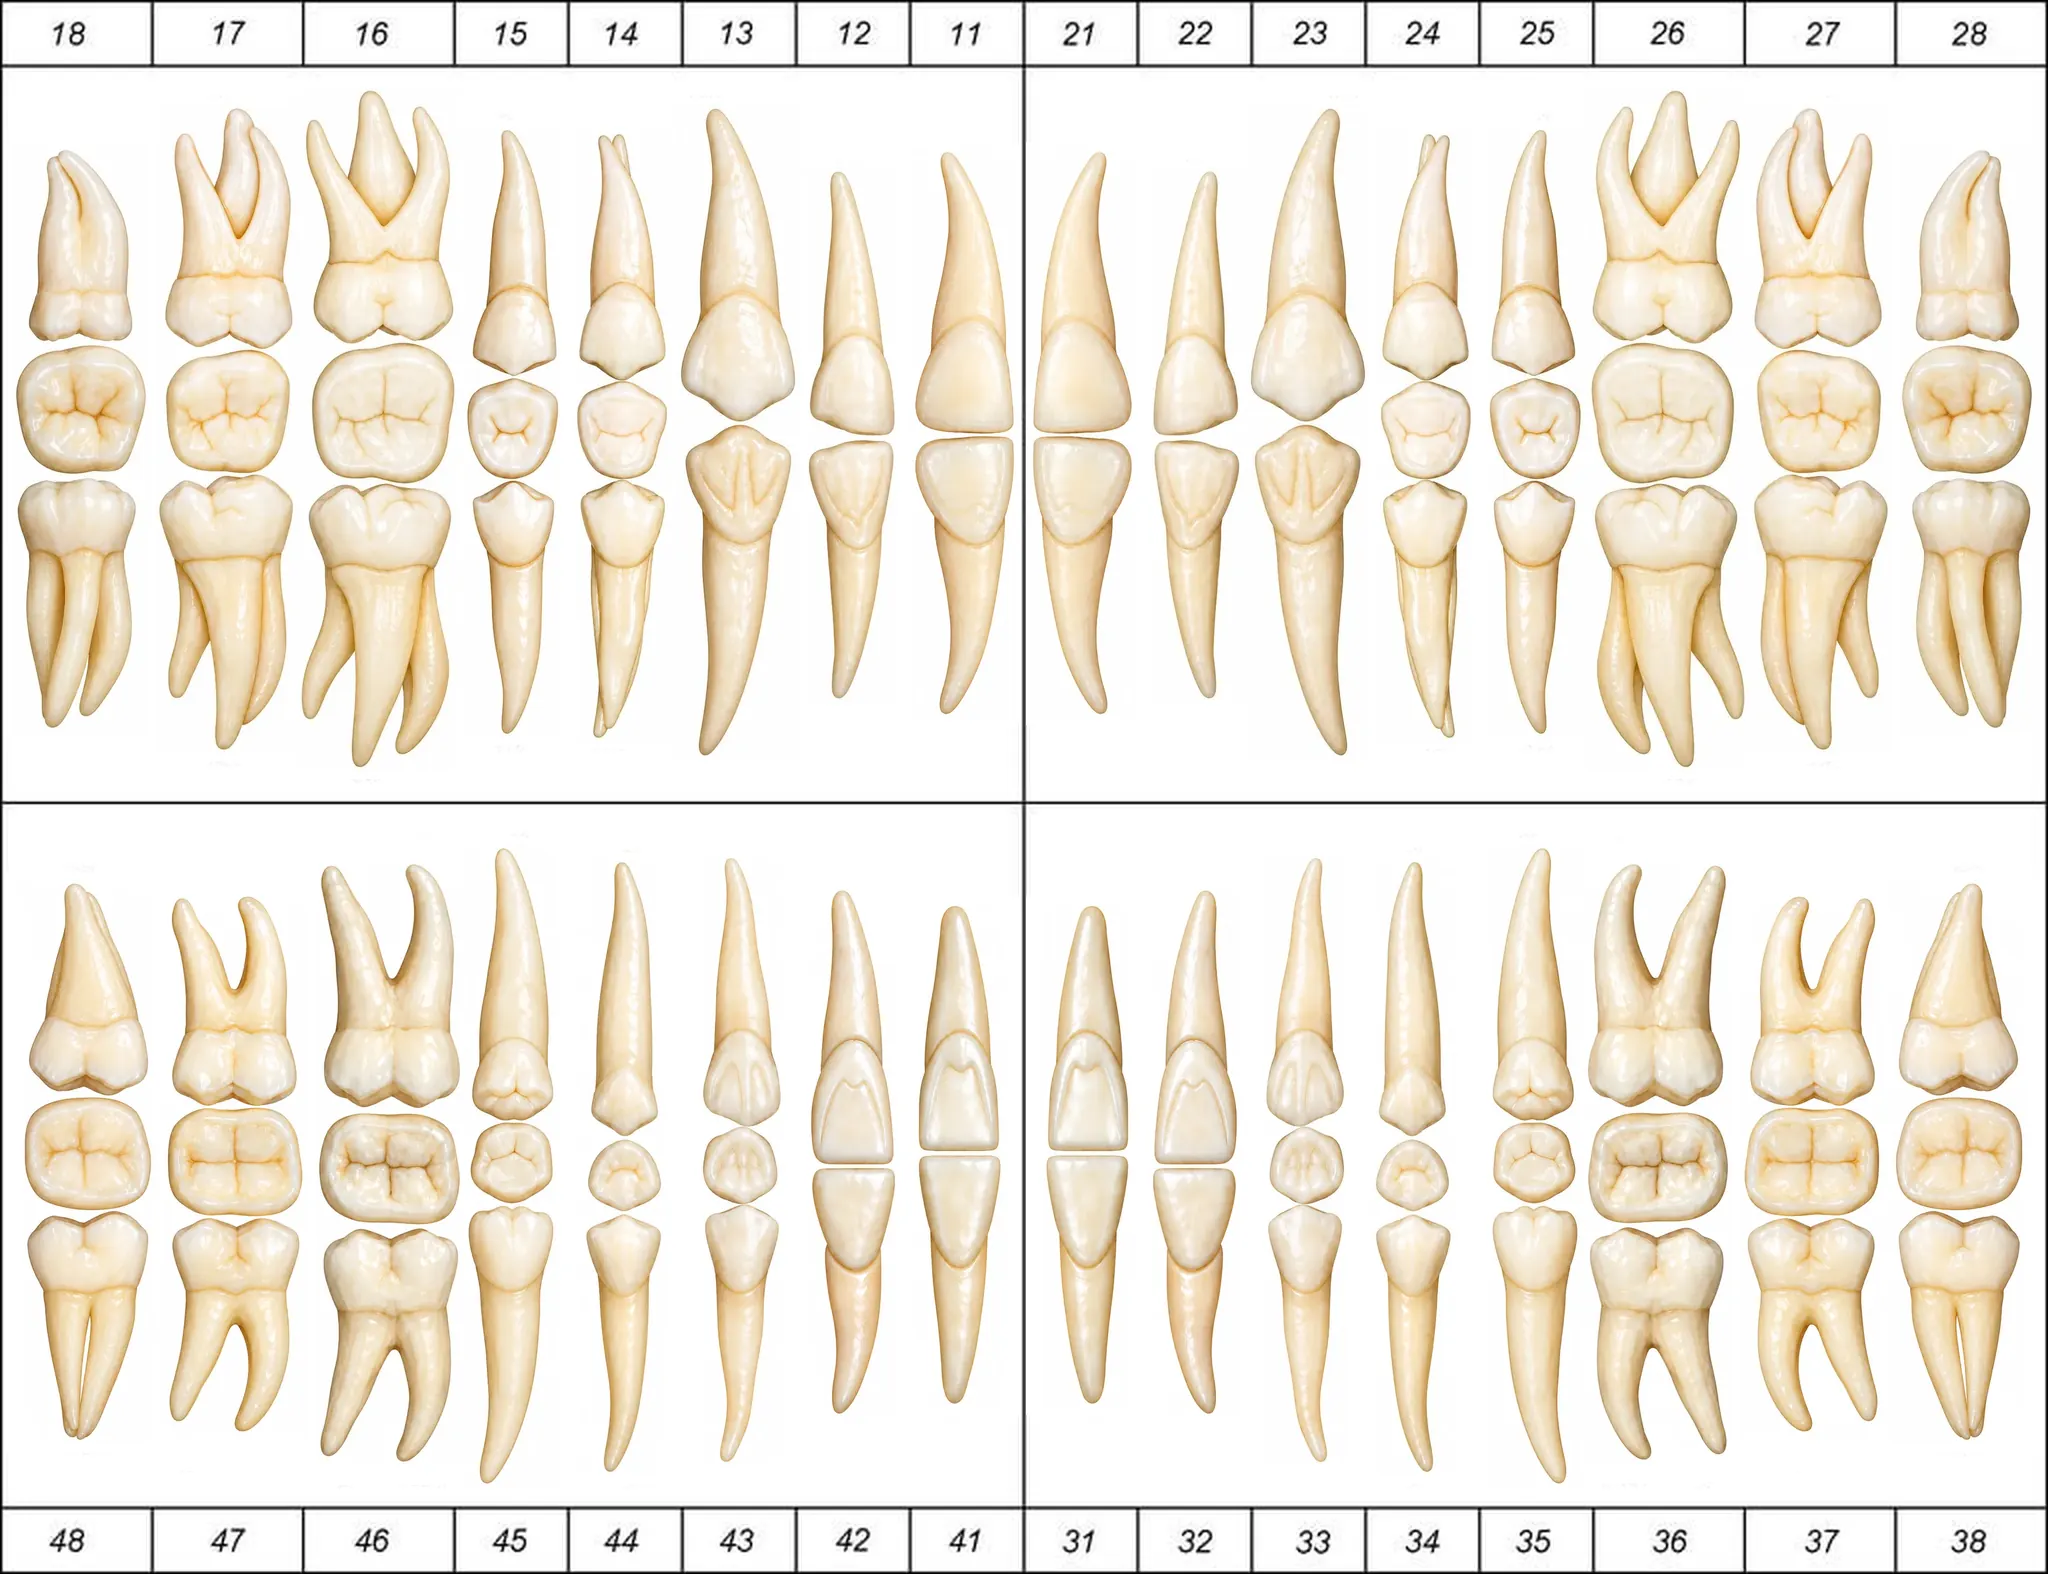
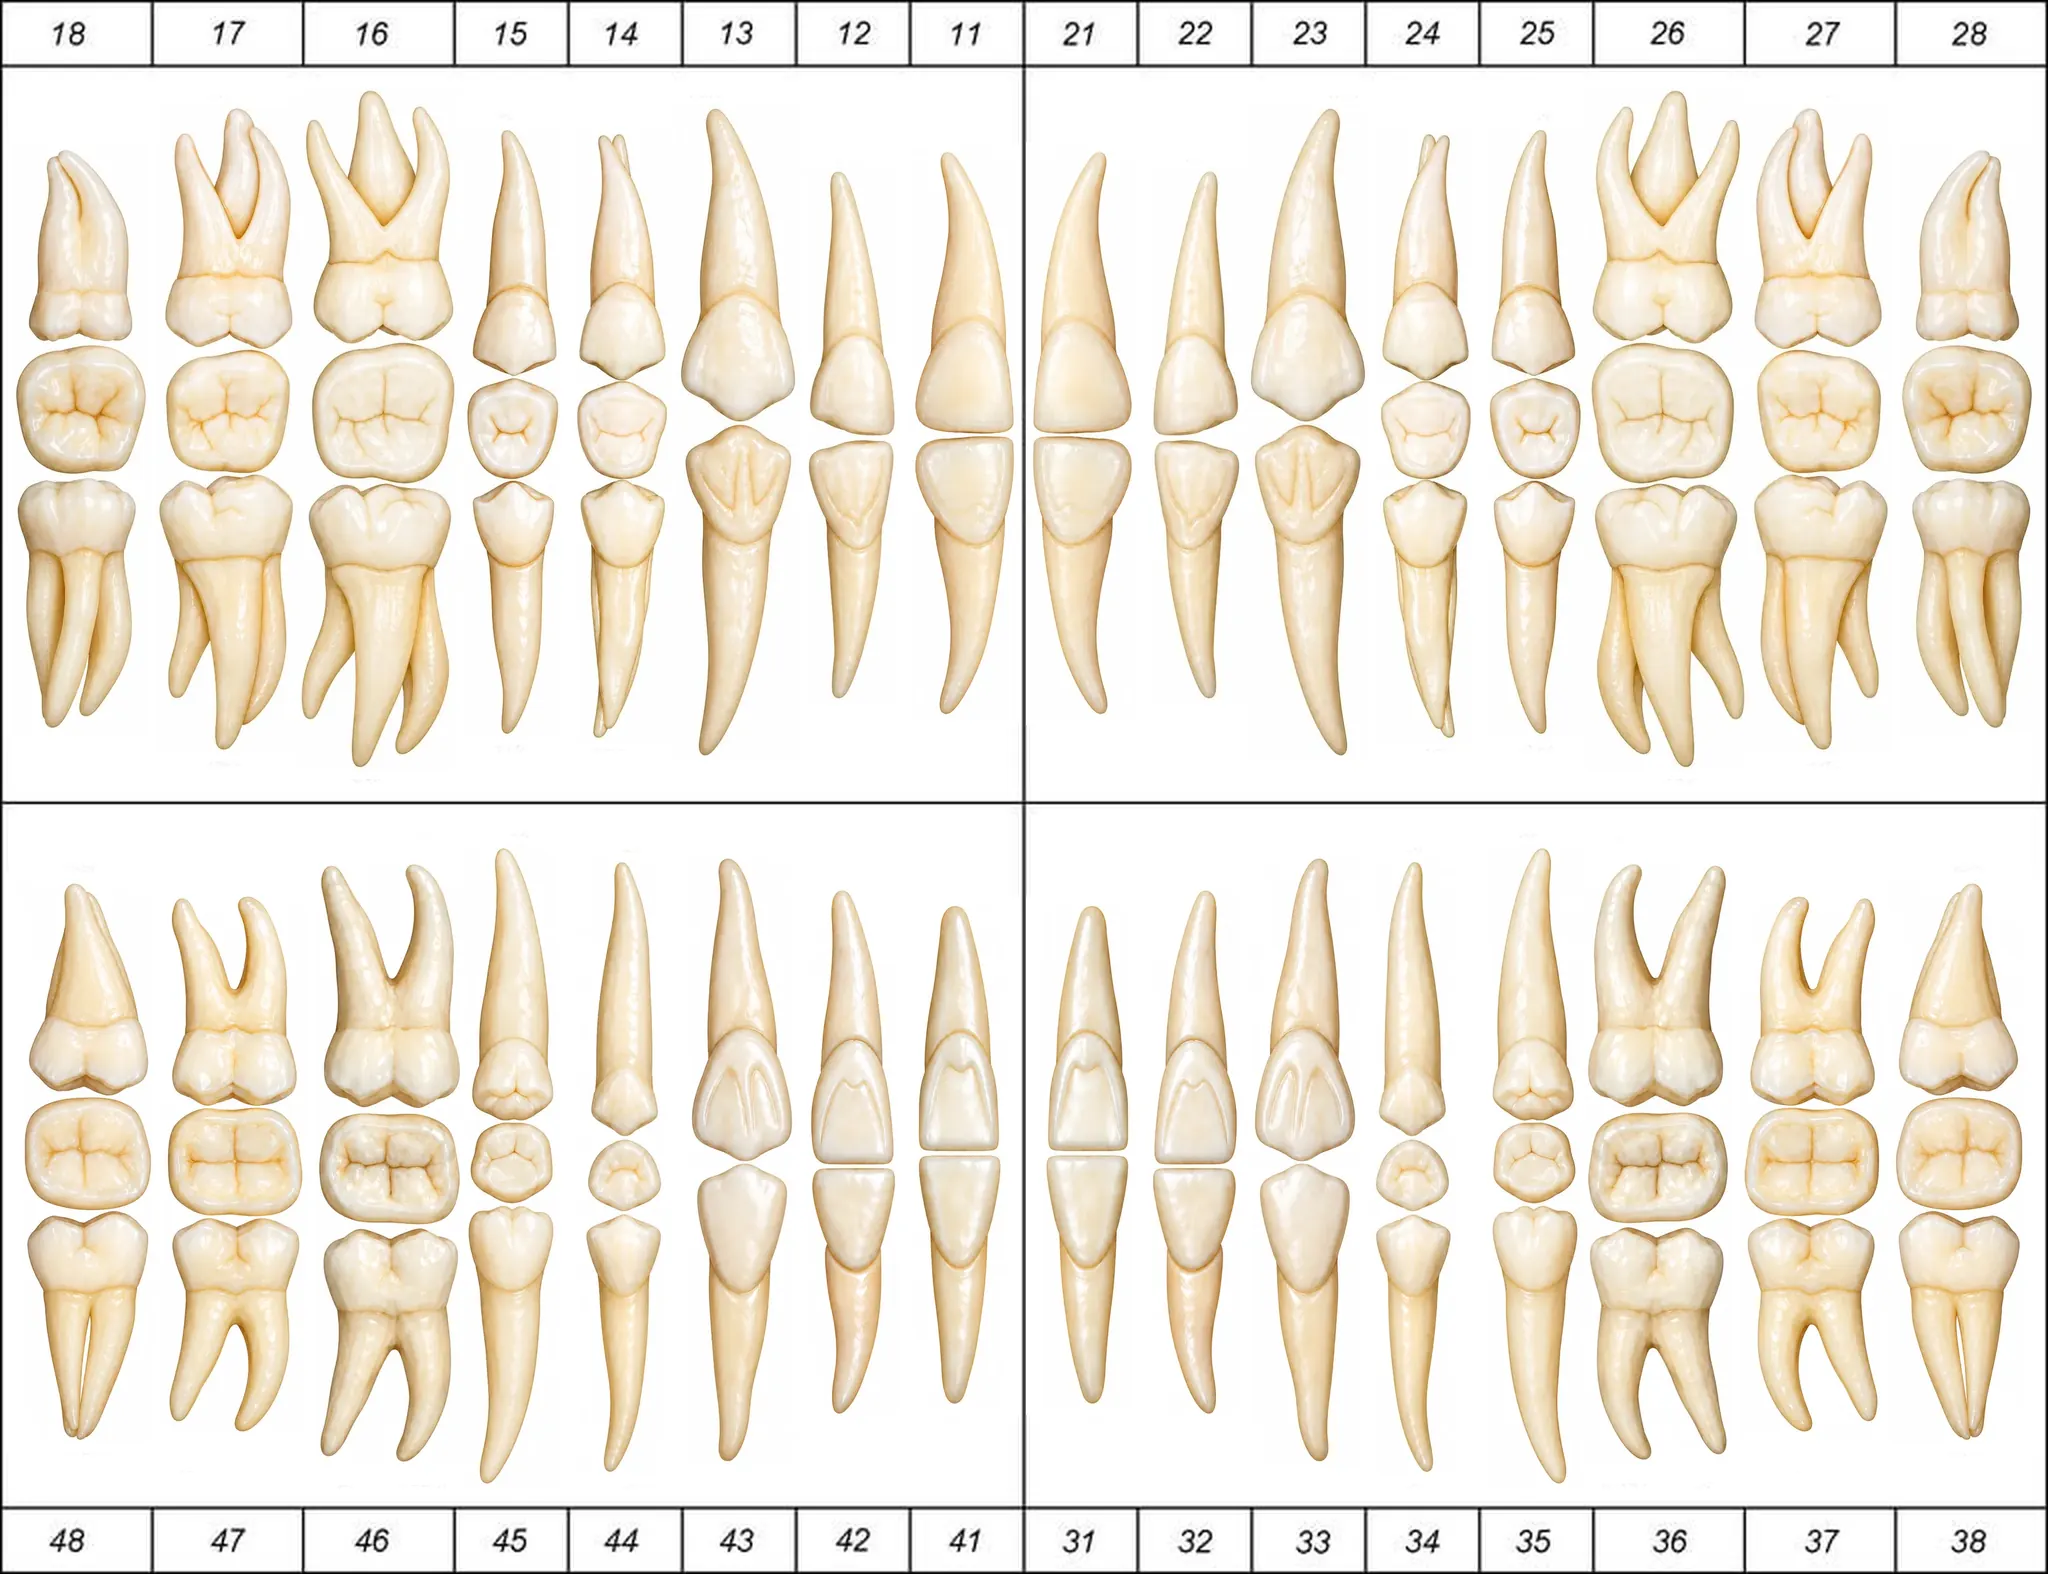
Odontograma: nueva ilustración del 43 (y 33)
Claude-Session: https://claude.ai/code/session_01FW31h1zo6p8vQyvT2eeDKx

Changed region(s): [[0.5938, 0.5604, 0.6875, 0.9339], [0.3125, 0.5604, 0.4062, 0.9339]]

diff --git a/lib/odontograma-version.ts b/lib/odontograma-version.ts
@@ -1,5 +1,5 @@
 // Generado por scripts/componer-carta.py — no editar a mano.
-export const ODONTOGRAMA_VERSION = "0ead820783";
+export const ODONTOGRAMA_VERSION = "5afac5eab3";
 // Colocación de cada ilustración en la carta: [escala, x, y] del lienzo.
 export const COLOCACION_DIENTES: Record<number, [number, number, number]> = {
   11: [0.28024, 439.96, 75.96],
